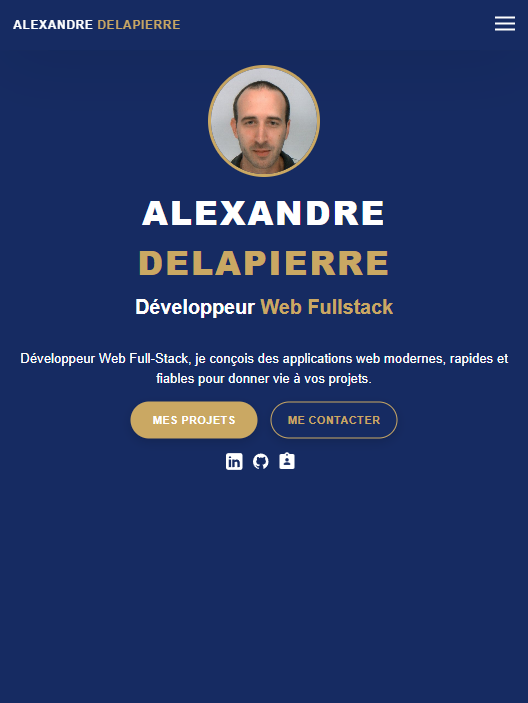
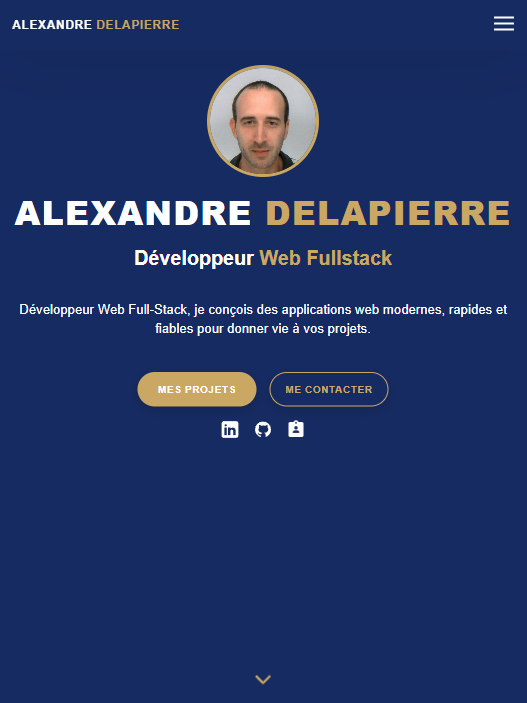
minor update

diff --git a/src/data/projectsData.js b/src/data/projectsData.js
@@ -44,7 +44,7 @@ const projectsData = [
       imageDesktop: RecettesDesktop,
       title: "Cuisinea",
       description: "Application web de recettes avec espace membre permettant de créer, modifier et supprimer ses propres recettes. Gestion des comptes utilisateurs et expérience fluide grâce à un design responsive pour mobile et desktop.",
-      tags: ["HTML","CSS","Bootstrap","PHP", "MySQL" ],
+      tags: ["PHP", "MySQL","HTML","CSS","Bootstrap"],
       liveLink: "https://cuisinea.alexdelapierre.fr/",
       codeLink: "https://github.com/AlexDelapierre/Cuisinea"
     },

diff --git a/src/components/About/About.css b/src/components/About/About.css
@@ -7,11 +7,10 @@
 }
 
 .about__btns {
-  margin-top: 2rem;
+  margin-top: 5rem;
   display: flex;
   gap: 2rem;
   justify-content: center;
-  /* margin-bottom: 2rem; */
 }
 
 .btn-cv {
